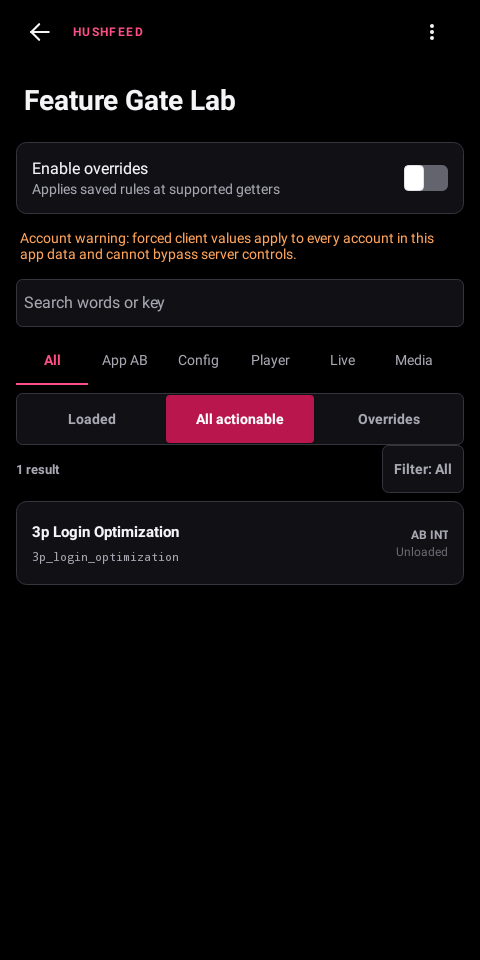
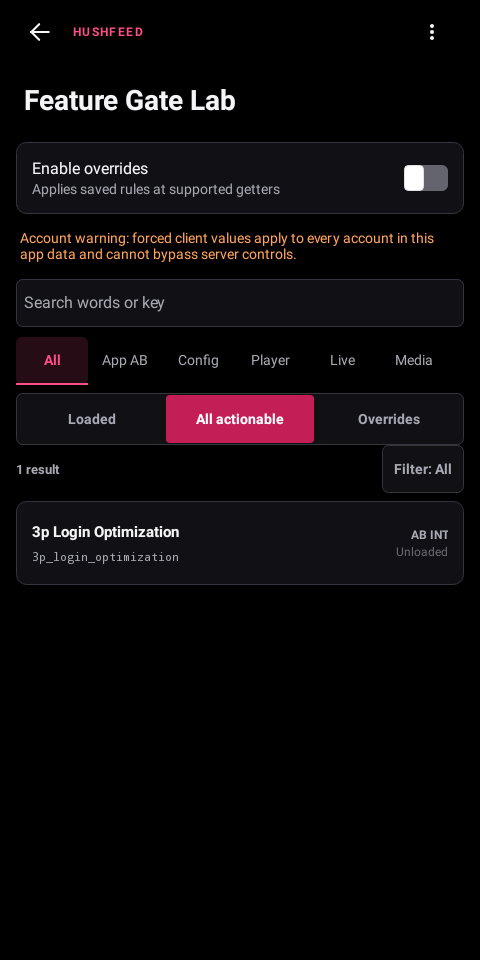
fix(tests): stop a capture publishing a picture with nothing in it
session-reminder.png was a black rectangle: 480 by 96 of a single colour, documenting the feature as blank and unable to catch any visual regression. SessionLockOverlayTest was the only one of the twenty classes that capture a view without @GraphicsMode(NATIVE), and without it the draw into the bitmap is a no-op that throws nothing. The fresh capture carries 190 colours and reads 'Still here. Nothing is waiting.' UiCapture now refuses any capture with fewer than eight colours, measured against the 49 tracked images: the blank one had 1 and the next lowest had 40. That check immediately found a second one: RegionSpoofTest runs at API 23 and 28, both wrote region-settings.png, and at 23 the decor view draws nothing, so which picture got published depended on which run finished last; it captures at 28 only. The test also measures the banner the way the capture will before asserting, because a child that has been hidden or sized to nothing keeps its last measurement and a size assertion on stale numbers passes while the picture comes out empty. Proven: hiding the child and sizing it to nothing each fail the test, both compiling first so the failure is the assertion. assets/settings/lab.png moves too, and that change is claude-0a's: the selected view tab now carries the wash box from 04ffe966 and ae6e85f6, and the Lab page had not been re-captured since. Nothing else among the 49 images moved, so the Bouncy Castle bump changed no rendering. 1,267 tests, 178 patch tests and bot
[…]

Changed region(s): [[0.0312, 0.3438, 0.1875, 0.4062]]

diff --git a/extensions/tiktok/src/test/java/app/morphe/extension/tiktok/wellbeing/SessionLockOverlayTest.java b/extensions/tiktok/src/test/java/app/morphe/extension/tiktok/wellbeing/SessionLockOverlayTest.java
@@ -39,6 +39,9 @@ import org.robolectric.annotation.Config;
  */
 @RunWith(RobolectricTestRunner.class)
 @Config(manifest = Config.NONE, sdk = 28)
+// Every other class that captures a view declares this; this one did not, and its published
+// capture was a black rectangle. Without it a draw into a bitmap is a no-op that throws nothing.
+@org.robolectric.annotation.GraphicsMode(org.robolectric.annotation.GraphicsMode.Mode.NATIVE)
 public class SessionLockOverlayTest {
     private final AtomicLong now = new AtomicLong();
 
@@ -616,6 +619,34 @@ public class SessionLockOverlayTest {
             assertTrue("the reminder took the focus", !banner.isFocusable());
 
             layout(root, 480, 960);
+
+            // Measured and laid out here exactly as the capture is about to do it, so what is
+            // asserted below is what will be drawn. Asserting against the parent's earlier pass
+            // proves nothing: a child that has been hidden or sized to nothing keeps its last
+            // measurement until something re-measures it, so a size assertion on stale numbers
+            // passes happily while the picture comes out empty.
+            banner.measure(View.MeasureSpec.makeMeasureSpec(480, View.MeasureSpec.EXACTLY),
+                    View.MeasureSpec.makeMeasureSpec(96, View.MeasureSpec.EXACTLY));
+            banner.layout(0, 0, 480, 96);
+
+            // What the picture is supposed to show, asserted rather than assumed. The capture
+            // used to be taken without anyone checking that the banner had a label, a size or
+            // any text in it, so a blank one looked exactly like a good one.
+            assertTrue("the banner has no content to draw",
+                    ((ViewGroup) banner).getChildCount() > 0);
+            android.widget.TextView label = (android.widget.TextView) ((ViewGroup) banner).getChildAt(0);
+            assertEquals("the words are not in the picture at all",
+                    View.VISIBLE, label.getVisibility());
+            String shown = label.getText().toString();
+            assertTrue("the reminder is not one of the three wordings: " + shown,
+                    shown.equals(SessionBudgetNotice.intervalMessage(0))
+                            || shown.equals(SessionBudgetNotice.intervalMessage(1))
+                            || shown.equals(SessionBudgetNotice.intervalMessage(2)));
+            assertTrue("the banner measured to nothing, so the capture would be empty",
+                    banner.getMeasuredWidth() > 0 && banner.getMeasuredHeight() > 0);
+            assertTrue("the label measured to nothing, so the words would not be in the picture",
+                    label.getMeasuredWidth() > 0 && label.getMeasuredHeight() > 0);
+
             app.morphe.extension.tiktok.UiCapture.save(banner, "session-reminder.png", 480, 96);
 
             // And it takes itself away rather than waiting to be dismissed.

diff --git a/extensions/tiktok/src/test/java/app/morphe/extension/tiktok/UiCapture.java b/extensions/tiktok/src/test/java/app/morphe/extension/tiktok/UiCapture.java
@@ -20,6 +20,7 @@ public final class UiCapture {
         view.layout(0, 0, width, height);
         Bitmap bitmap = Bitmap.createBitmap(width, height, Bitmap.Config.ARGB_8888);
         view.draw(new Canvas(bitmap));
+        requireSomethingDrawn(bitmap, name);
         File output = new File(directory, name);
         if (!output.getParentFile().isDirectory() && !output.getParentFile().mkdirs()) {
             throw new java.io.IOException("Cannot create screenshot directory");
@@ -31,4 +32,44 @@ public final class UiCapture {
         }
         bitmap.recycle();
     }
+
+    /**
+     * Refuses a capture with nothing in it.
+     *
+     * <p>A test class that forgets {@code @GraphicsMode(NATIVE)} still draws, in the sense that
+     * nothing throws: the draw is simply a no-op and the bitmap keeps the zeroes it was created
+     * with. The published file is then a black rectangle that documents the feature as blank and
+     * can never catch a visual regression, and nothing noticed, because the refresh task only
+     * compares bytes. session-reminder.png shipped that way.
+     *
+     * <p>Eight colours rather than two, and counted rather than sampled. Measured over the 49
+     * tracked captures on 2026-09-15: the blank one had exactly 1, and the next lowest, an 80 by
+     * 80 control, had 40. Anything a person would call a screenshot is far above this.
+     */
+    private static void requireSomethingDrawn(Bitmap bitmap, String name) {
+        int width = bitmap.getWidth();
+        int height = bitmap.getHeight();
+        if (width <= 0 || height <= 0) {
+            throw new IllegalStateException("The capture for " + name + " has no area: "
+                    + width + "x" + height);
+        }
+        java.util.Set<Integer> colours = new java.util.HashSet<>();
+        int[] row = new int[width];
+        for (int y = 0; y < height; y++) {
+            bitmap.getPixels(row, 0, width, 0, y, width, 1);
+            for (int pixel : row) {
+                // Opacity out of it: a view drawn on a transparent bitmap is still drawn, and
+                // the thing worth refusing is a picture with no shapes in it.
+                colours.add(pixel & 0x00FFFFFF);
+                if (colours.size() >= MINIMUM_COLOURS) return;
+            }
+        }
+        throw new IllegalStateException("The capture for " + name + " has only " + colours.size()
+                + " colour" + (colours.size() == 1 ? "" : "s") + " in it, so nothing was drawn. "
+                + "A test that captures a view needs @GraphicsMode(GraphicsMode.Mode.NATIVE); "
+                + "without it the draw is a no-op and the bitmap keeps the zeroes it was made "
+                + "with.");
+    }
+
+    private static final int MINIMUM_COLOURS = 8;
 }

diff --git a/extensions/tiktok/src/test/java/app/morphe/extension/tiktok/spoof/region/RegionSpoofTest.java b/extensions/tiktok/src/test/java/app/morphe/extension/tiktok/spoof/region/RegionSpoofTest.java
@@ -24,6 +24,9 @@ import org.robolectric.annotation.GraphicsMode;
 @Config(sdk = {23, 28})
 @GraphicsMode(GraphicsMode.Mode.NATIVE)
 public class RegionSpoofTest {
+    /** The newest API in the @Config above, and the only run that publishes a picture. */
+    private static final int PUBLISHED_CAPTURE_SDK = 28;
+
     @Before public void setup() {
         Utils.setContext(RuntimeEnvironment.getApplication());
         Settings.SIM_SPOOF.save(true);
@@ -137,7 +140,14 @@ public class RegionSpoofTest {
             assertNotNull(country.getOnPreferenceChangeListener());
             activity.setPreferenceScreen(screen);
             org.robolectric.Shadows.shadowOf(android.os.Looper.getMainLooper()).idle();
-            app.morphe.extension.tiktok.UiCapture.save(activity.getWindow().getDecorView(), "region-settings.png");
+            // This class runs at both 23 and 28 and both runs wrote the same file, so which one
+            // ended up published depended on which finished last. At 23 the decor view draws
+            // nothing at all, so half the time the published picture would have been blank.
+            // Published captures come from the newest API this class runs at.
+            if (Build.VERSION.SDK_INT == PUBLISHED_CAPTURE_SDK) {
+                app.morphe.extension.tiktok.UiCapture.save(
+                        activity.getWindow().getDecorView(), "region-settings.png");
+            }
         }
     }
 }
